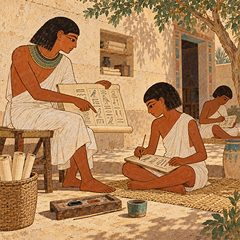
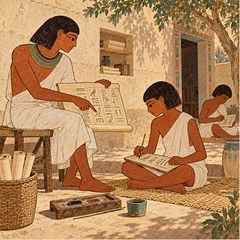
Carte 45 : nouvelle illustration
Claude-Session: https://claude.ai/code/session_01SHozX5BSLvXQuXKxuotdBw

Changed region(s): [[0.0, 0.0, 1.0, 1.0], [0.0875, 0.0, 0.2042, 0.0292], [0.0292, 0.2625, 0.0583, 0.2917]]

diff --git a/index.html b/index.html
@@ -7,7 +7,7 @@
 <link rel="preconnect" href="https://fonts.googleapis.com">
 <link rel="preconnect" href="https://fonts.gstatic.com" crossorigin>
 <link rel="stylesheet" href="https://fonts.googleapis.com/css2?family=Marcellus+SC&family=Alegreya+Sans:wght@400;500;700;800&family=Noto+Sans+Egyptian+Hieroglyphs&display=swap">
-<link rel="stylesheet" href="style.css?v=42">
+<link rel="stylesheet" href="style.css?v=43">
 </head>
 <body>
 <section id="home" class="home">
@@ -78,9 +78,9 @@
 
 <div class="modal" id="modal" hidden><div class="sheet" id="sheet"></div></div>
 
-<script src="engine.js?v=42"></script>
-<script src="ui.js?v=42"></script>
-<script src="stats.js?v=42"></script>
-<script src="tuto.js?v=42"></script>
+<script src="engine.js?v=43"></script>
+<script src="ui.js?v=43"></script>
+<script src="stats.js?v=43"></script>
+<script src="tuto.js?v=43"></script>
 </body>
 </html>

diff --git a/ui.js b/ui.js
@@ -125,7 +125,7 @@ function effHTML(C) {
 }
 function cardHTML(id, o = {}) {
   const c = D.card(id), ttl = TITLES[id] || "";
-  const art = HAS_ART(id) ? `<img class="art" src="assets/a${id}.jpg" alt="" loading="lazy">` : `<img class="art ph" src="assets/medal.png" alt="">`;
+  const art = HAS_ART(id) ? `<img class="art" src="assets/a${id}.jpg?v=43" alt="" loading="lazy">` : `<img class="art ph" src="assets/medal.png" alt="">`;
   const dim = ({ L: "dimR", R: "dimL", U: "dimE", D: "dimT" })[o.side] || "";
   const scs = o.sc ? `<div class="scs">${Array(o.sc).fill('<img src="assets/scarab.png" alt="">').join("")}</div>` : "";
   return `<div class="lc ${dim}" title="${esc(ttl || t("cardN", id))}">${art}<div class="ttl">${esc(ttl)}</div>
